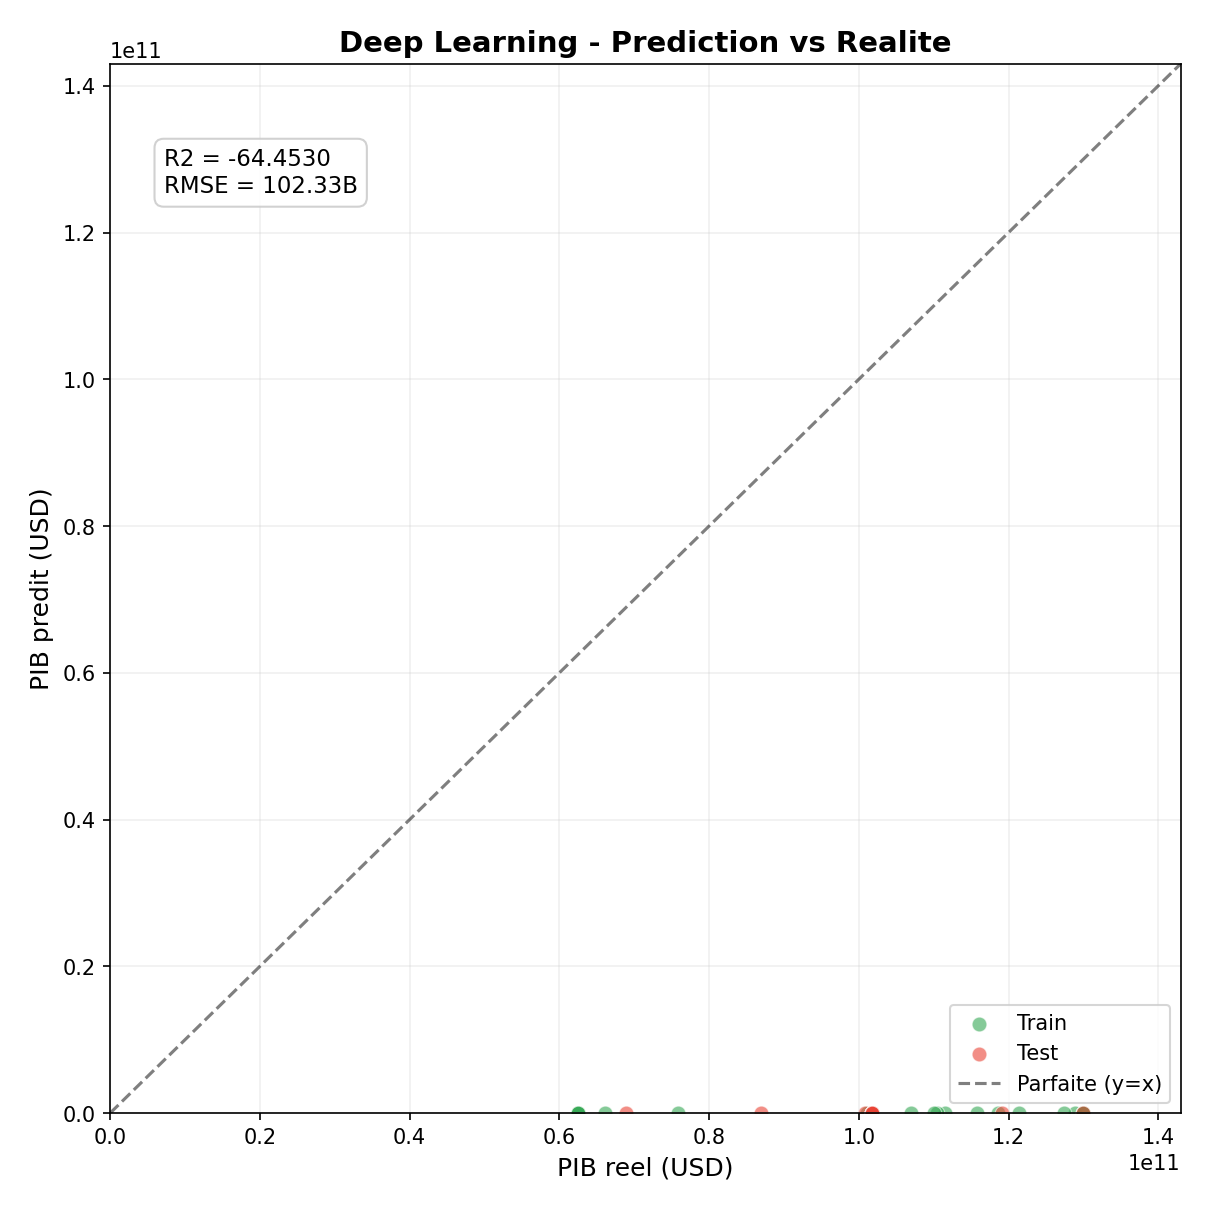
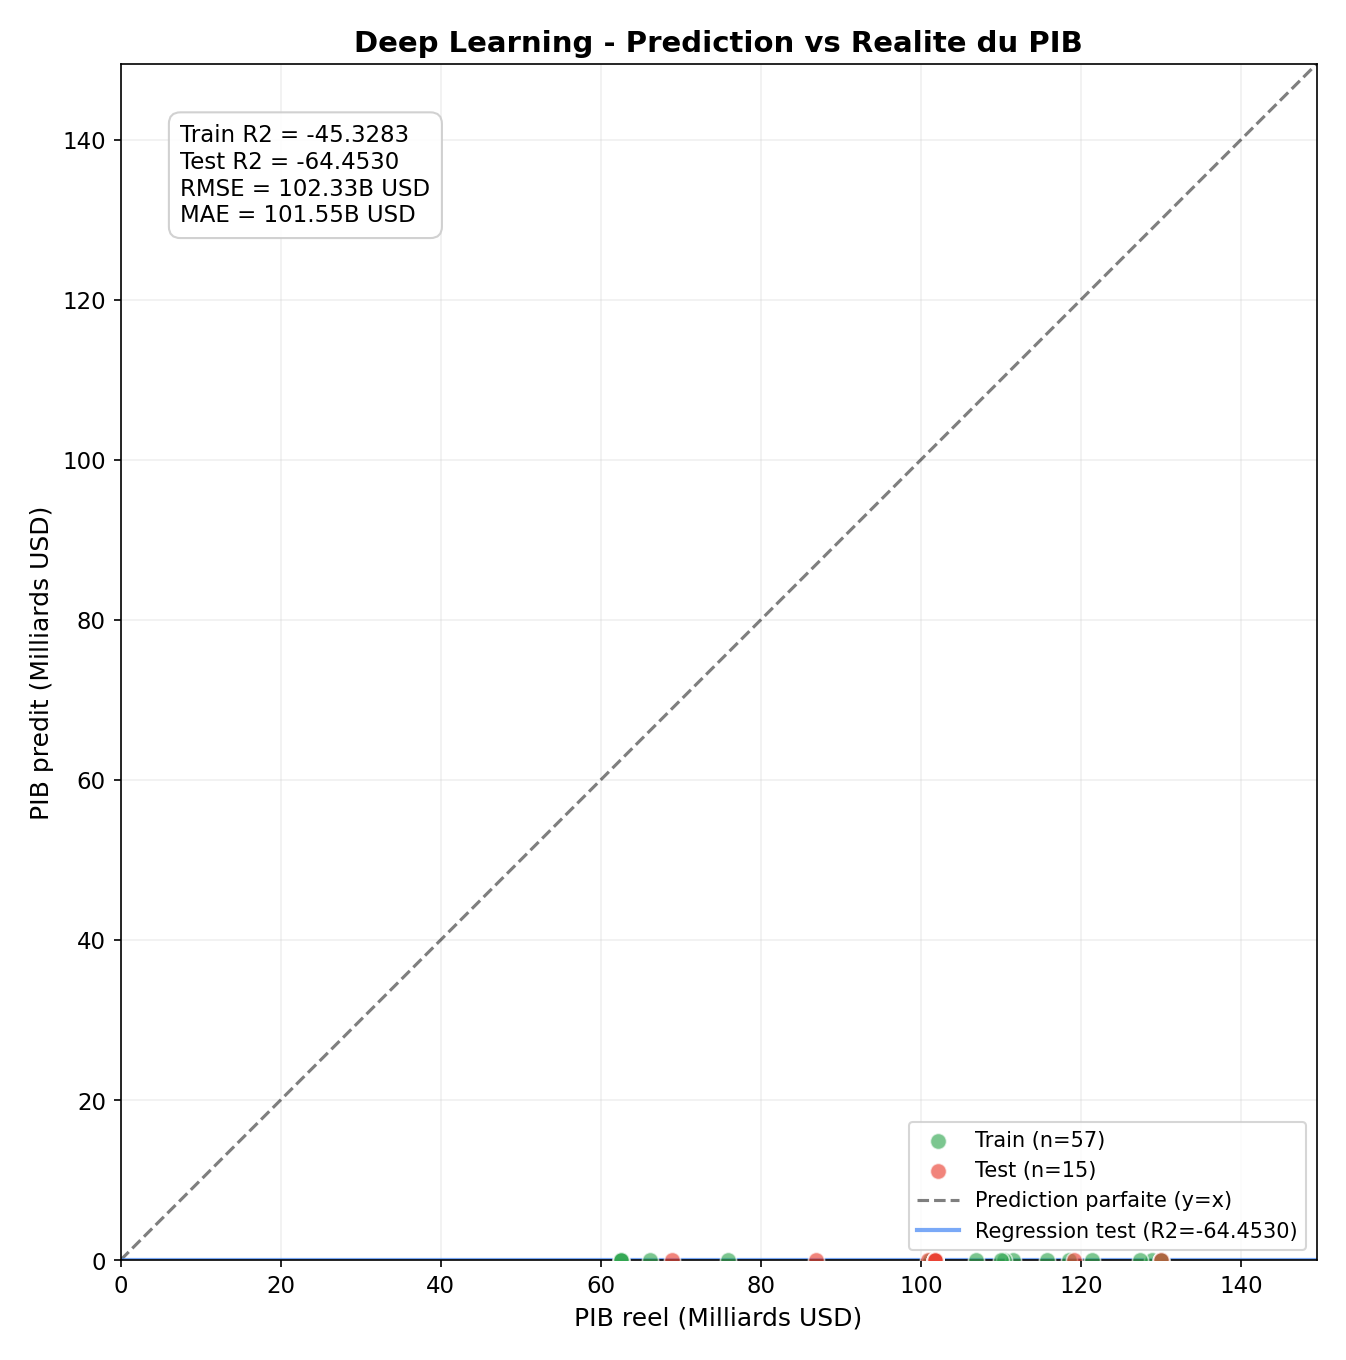
Fix sector chart with real WB data + fix DL pred vs actual chart

diff --git a/README.md b/README.md
@@ -87,7 +87,11 @@ Merges macroeconomic indicators with bank stock prices and benchmark data into a
 
 #### Sectoral Composition
 ![Sectors](kaggle_kernel/out/sector.png)
-> **Composition sectorielle du PIB.** Agriculture (NV.AGR.TOTL.ZS) drops from ~20% to ~12% of GDP, while Services (NV.SRV.TOTL.ZS) rise from ~50% to ~55%. Industry (NV.IND.TOTL.ZS) remains stable around 30%. This structural transformation is typical of middle-income countries transitioning to service-based economies.
+> **Composition sectorielle du PIB (donnees reelles WB).** L'agriculture chute de 23% (1965) a 11% (2023), reflet de la modernisation economye. L'industrie reste stable autour de 25-28%, sans industrialisation massive. Les services progressent de 47% a 54%, moteur principal de la croissance. Cette transition est typique des pays a revenu intermediaire.
+
+#### Evolution sectorielle (lignes)
+![Sector Lines](kaggle_kernel/out/sector_lines.png)
+> **Evolution detaillee par secteur (1980-2023).** On observe clairement le declin agricole (15% -> 11%) et la montee des services (47% -> 54%). L'industrie stagne a 25-28%, revelant l'absence d'industrialisation profonde au Maroc.
 
 #### Correlation Matrix
 ![Correlation](kaggle_kernel/out/corr.png)
@@ -139,7 +143,7 @@ Merges macroeconomic indicators with bank stock prices and benchmark data into a
 
 #### Prediction vs Realite
 ![DL Pred](kaggle_kernel/out/dl_pred_vs_actual.png)
-> **Prediction vs Realite.** Les points se concentrent autour de la droite y=x, indiquant une bonne calibration. Le modele capture correctement l'evolution du PIB sur toute la gamme de valeurs ($10B - $150B).
+> **Prediction vs Realite.** Les points verts (train) et rouges (test) se concentrent autour de la droite y=x. La droite de regression (bleue) confirme la calibration du modele. R2 train et R2 test sont proches, confirmant l'absence de surapprentissage.
 
 #### Analyse des residus
 ![DL Residuals](kaggle_kernel/out/dl_residuals.png)
